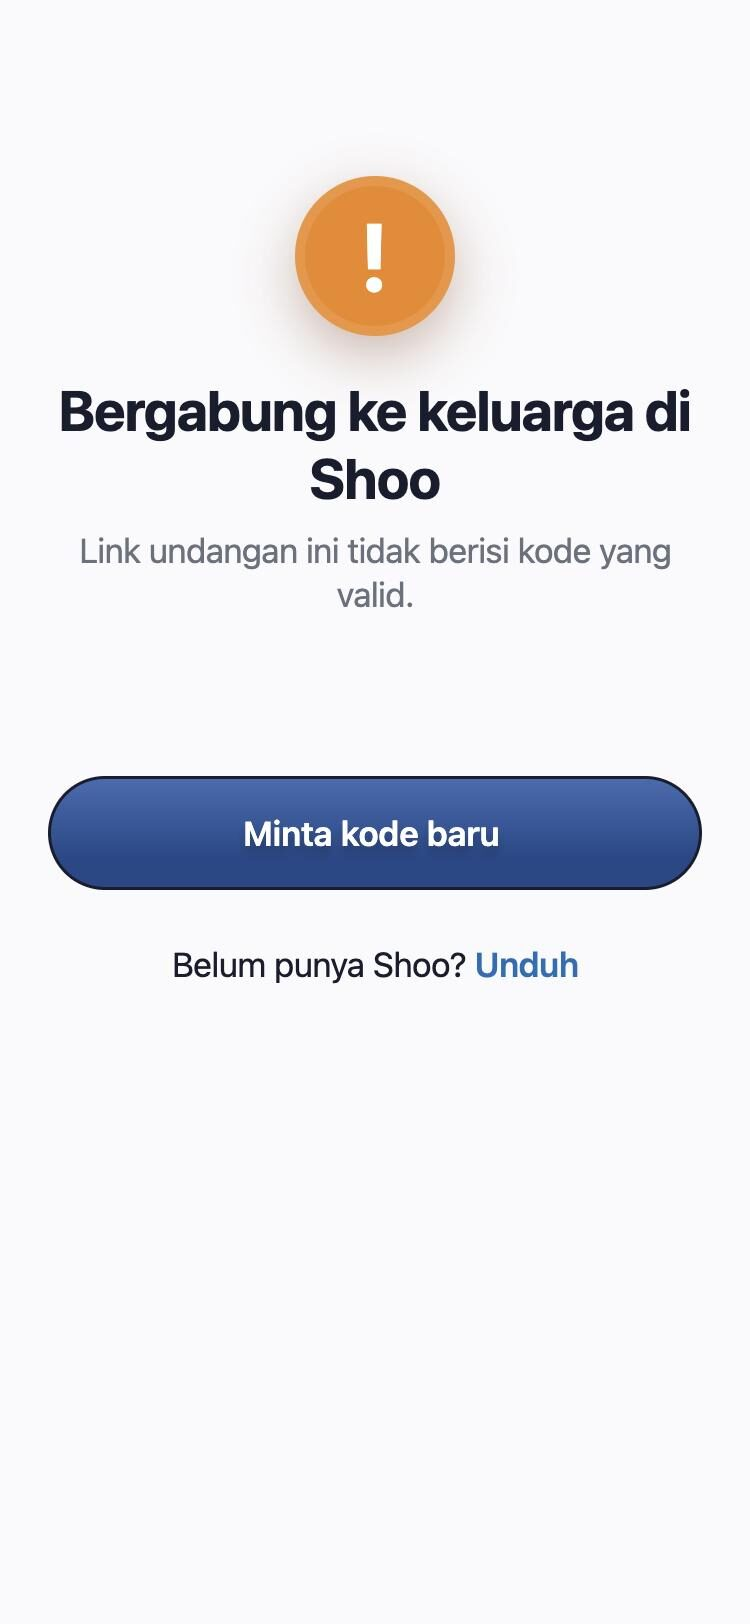
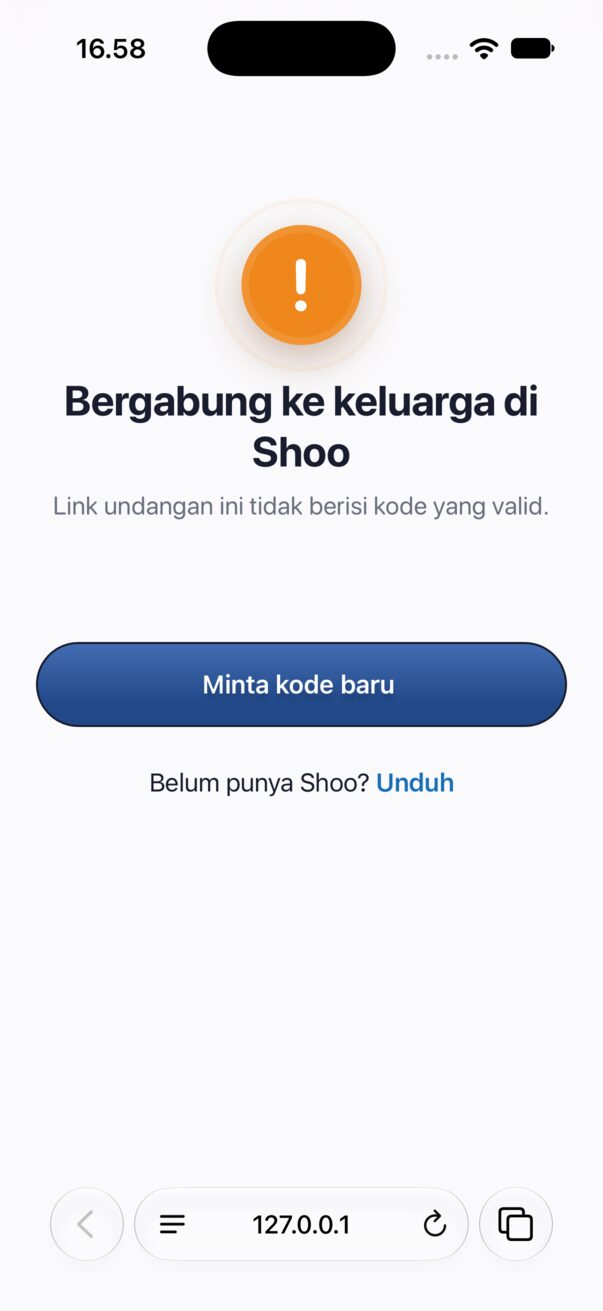
PR-03: join page fits above Safari's bottom bar
On iOS 26 Safari the floating address bar sits over the page bottom; 100svh
already stops above it (714 pt on iPhone 17), but the valid page was 765 pt
tall, so the button slid down under the bar. A lower sky (236 px) and 24 px
gaps bring it to ~690 pt: everything, button included, shows above the bar
without scrolling. Screenshots are now from Safari on the iPhone 17 simulator.

diff --git a/backend/api/src/routes/join-page.ts b/backend/api/src/routes/join-page.ts
@@ -90,9 +90,9 @@ const csp = (nonce: string) =>
 // Light only. SF Pro Rounded comes from the system (ui-rounded); the CSP loads no web fonts.
 const STYLE = `*{box-sizing:border-box}
 body{margin:0;min-height:100vh;min-height:100svh;display:flex;flex-direction:column;background:#fff;color:#191d2f;font:17px/22px -apple-system,system-ui,sans-serif;text-align:center;-webkit-text-size-adjust:100%}
-.sky{position:relative;flex:none;height:280px;overflow:hidden;background:linear-gradient(180deg,#1f7fdc 0%,#46a6ec 45%,#9ad3f6 80%,#fff 100%)}
+.sky{position:relative;flex:none;height:236px;overflow:hidden;background:linear-gradient(180deg,#1f7fdc 0%,#46a6ec 45%,#9ad3f6 80%,#fff 100%)}
 .sky.warn{background:linear-gradient(180deg,#e9862a 0%,#f3a457 45%,#f9d3a8 80%,#fff 100%)}
-.sky i{position:absolute;left:50%;top:140px;border-radius:50%;transform:translate(-50%,-50%);pointer-events:none}
+.sky i{position:absolute;left:50%;top:118px;border-radius:50%;transform:translate(-50%,-50%);pointer-events:none}
 .sky .glow{width:220px;height:220px;background:radial-gradient(circle,rgba(255,255,255,.55),rgba(255,255,255,0) 70%)}
 .sky .halo{width:220px;height:220px;border:1.5px dotted rgba(255,255,255,.5)}
 .sky .halo+.halo{width:330px;height:330px;opacity:.6}
@@ -102,7 +102,7 @@ body{margin:0;min-height:100vh;min-height:100svh;display:flex;flex-direction:col
 @keyframes pop{from{transform:translateY(24px) scale(.9);opacity:0}to{transform:none;opacity:1}}
 @keyframes bob{0%,100%{transform:none}50%{transform:translateY(-5px)}}
 @keyframes rise{from{opacity:0;transform:translateY(8px)}to{opacity:1;transform:none}}
-main{position:relative;flex:1;width:100%;max-width:402px;margin:-28px auto 0;padding:28px 24px 40px;background:#fff;border-radius:32px 32px 0 0;display:flex;flex-direction:column;align-items:center}
+main{position:relative;flex:1;width:100%;max-width:402px;margin:-28px auto 0;padding:28px 24px 24px;background:#fff;border-radius:32px 32px 0 0;display:flex;flex-direction:column;align-items:center}
 .enter>*{animation:rise .3s cubic-bezier(.2,.8,.2,1) .15s both}
 .enter>.actions{animation-delay:.23s}
 h1{margin:4px 0 0;font-size:28px;line-height:34px;font-weight:700;letter-spacing:-.01em}
@@ -117,7 +117,7 @@ h1{margin:4px 0 0;font-size:28px;line-height:34px;font-weight:700;letter-spacing
 .meta{display:flex;align-items:center;justify-content:space-between;width:100%;margin-top:8px}
 .ttl{display:flex;align-items:center;gap:6px;color:#6a717e;font-size:13px;line-height:18px;letter-spacing:-.08px}
 .copy{display:flex;align-items:center;gap:6px;min-height:44px;padding:0;border:0;background:none;color:#186fb9;font:inherit;font-weight:600;letter-spacing:-.01em;cursor:pointer}
-.actions{width:100%;margin-top:auto;padding-top:40px;display:flex;flex-direction:column;gap:10px}
+.actions{width:100%;margin-top:auto;padding-top:24px;display:flex;flex-direction:column;gap:10px}
 .btn{width:100%;font:inherit;font-weight:600;cursor:pointer;-webkit-tap-highlight-color:transparent;touch-action:manipulation;transition:transform .12s ease,filter .12s ease;display:flex;align-items:center;justify-content:center;gap:8px;min-height:54px;padding:16px 20px 16px 16px;border:1.5px solid #191d2f;border-radius:999px;background:linear-gradient(180deg,#446eb4 -4%,#214889 75%);color:#fff;font-weight:600;text-decoration:none;text-shadow:0 4px 4px rgba(0,0,0,.2)}
 .btn:active{transform:scale(.97);filter:brightness(.92)}
 .copy{transition:transform .12s ease}.copy:active{transform:scale(.97)}
@@ -131,7 +131,9 @@ h1{margin:4px 0 0;font-size:28px;line-height:34px;font-weight:700;letter-spacing
 @media (prefers-reduced-motion:reduce){.mascot,.enter>*{animation:none}.btn,.copy{transition:none}.btn:active,.copy:active{transform:none}}`;
 
 // The actions sit at the bottom of the screen (main fills the rest of the viewport), like the app's CTAs;
-// on a short screen they follow the content with a 40 px gap and the page scrolls.
+// on a short screen they follow the content with a 24 px gap and the page scrolls. 100svh stops above
+// Safari's bottom bar (iOS 26: 714 pt on a 402x874 iPhone), and the whole valid page (~690 pt) fits in it,
+// so the floating address bar never covers the button.
 // Mascot motion: Shoo pops up over the sheet edge, then bobs gently (like the app's mascots). CSS only
 // (no script); off under prefers-reduced-motion. The image is decorative (alt=""): the heading says it.
 

diff --git a/backend/api/test/join-page.test.ts b/backend/api/test/join-page.test.ts
@@ -56,7 +56,7 @@ describe("GET /j/:code", () => {
     // The button sits at the bottom of the screen: main fills the viewport, the actions take the free space above.
     expect(html).toContain("body{margin:0;min-height:100vh;min-height:100svh;display:flex;flex-direction:column;");
     expect(html).toContain("main{position:relative;flex:1;");
-    expect(html).toContain(".actions{width:100%;margin-top:auto;padding-top:40px;");
+    expect(html).toContain(".actions{width:100%;margin-top:auto;padding-top:24px;");
   });
 
   it("Install copies the invite link, then goes to the store; the only script carries the header's nonce", async () => {
